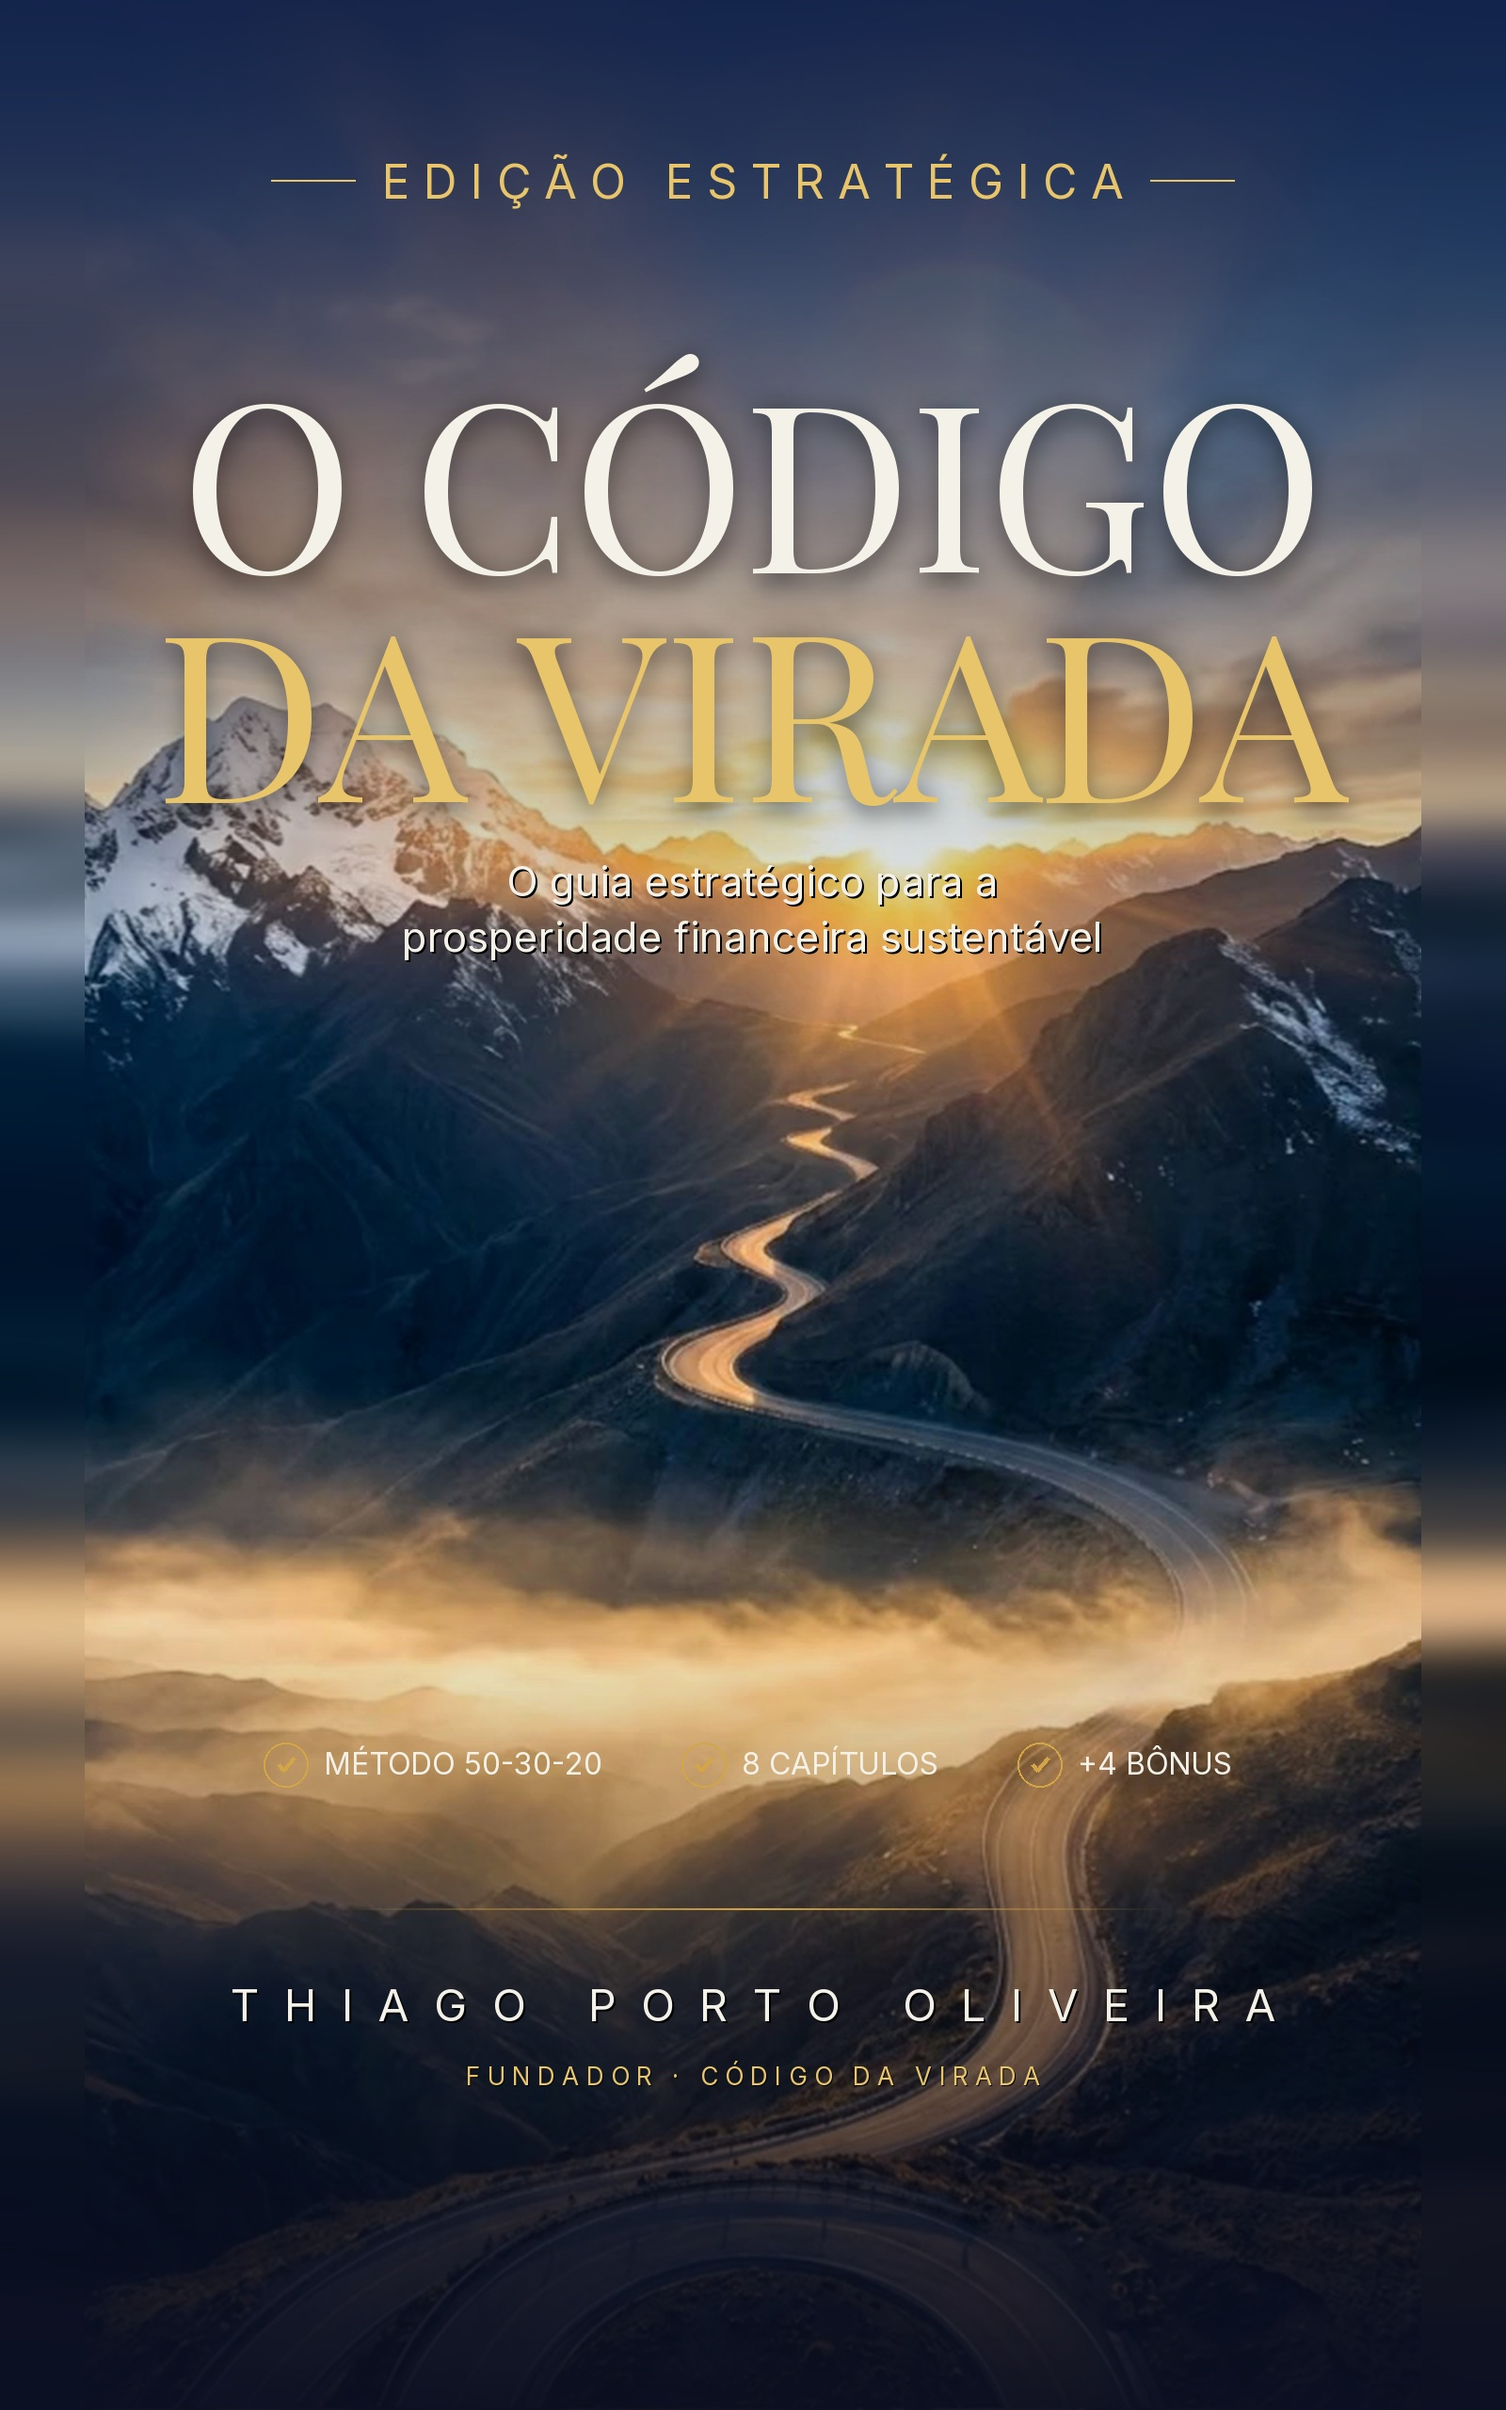
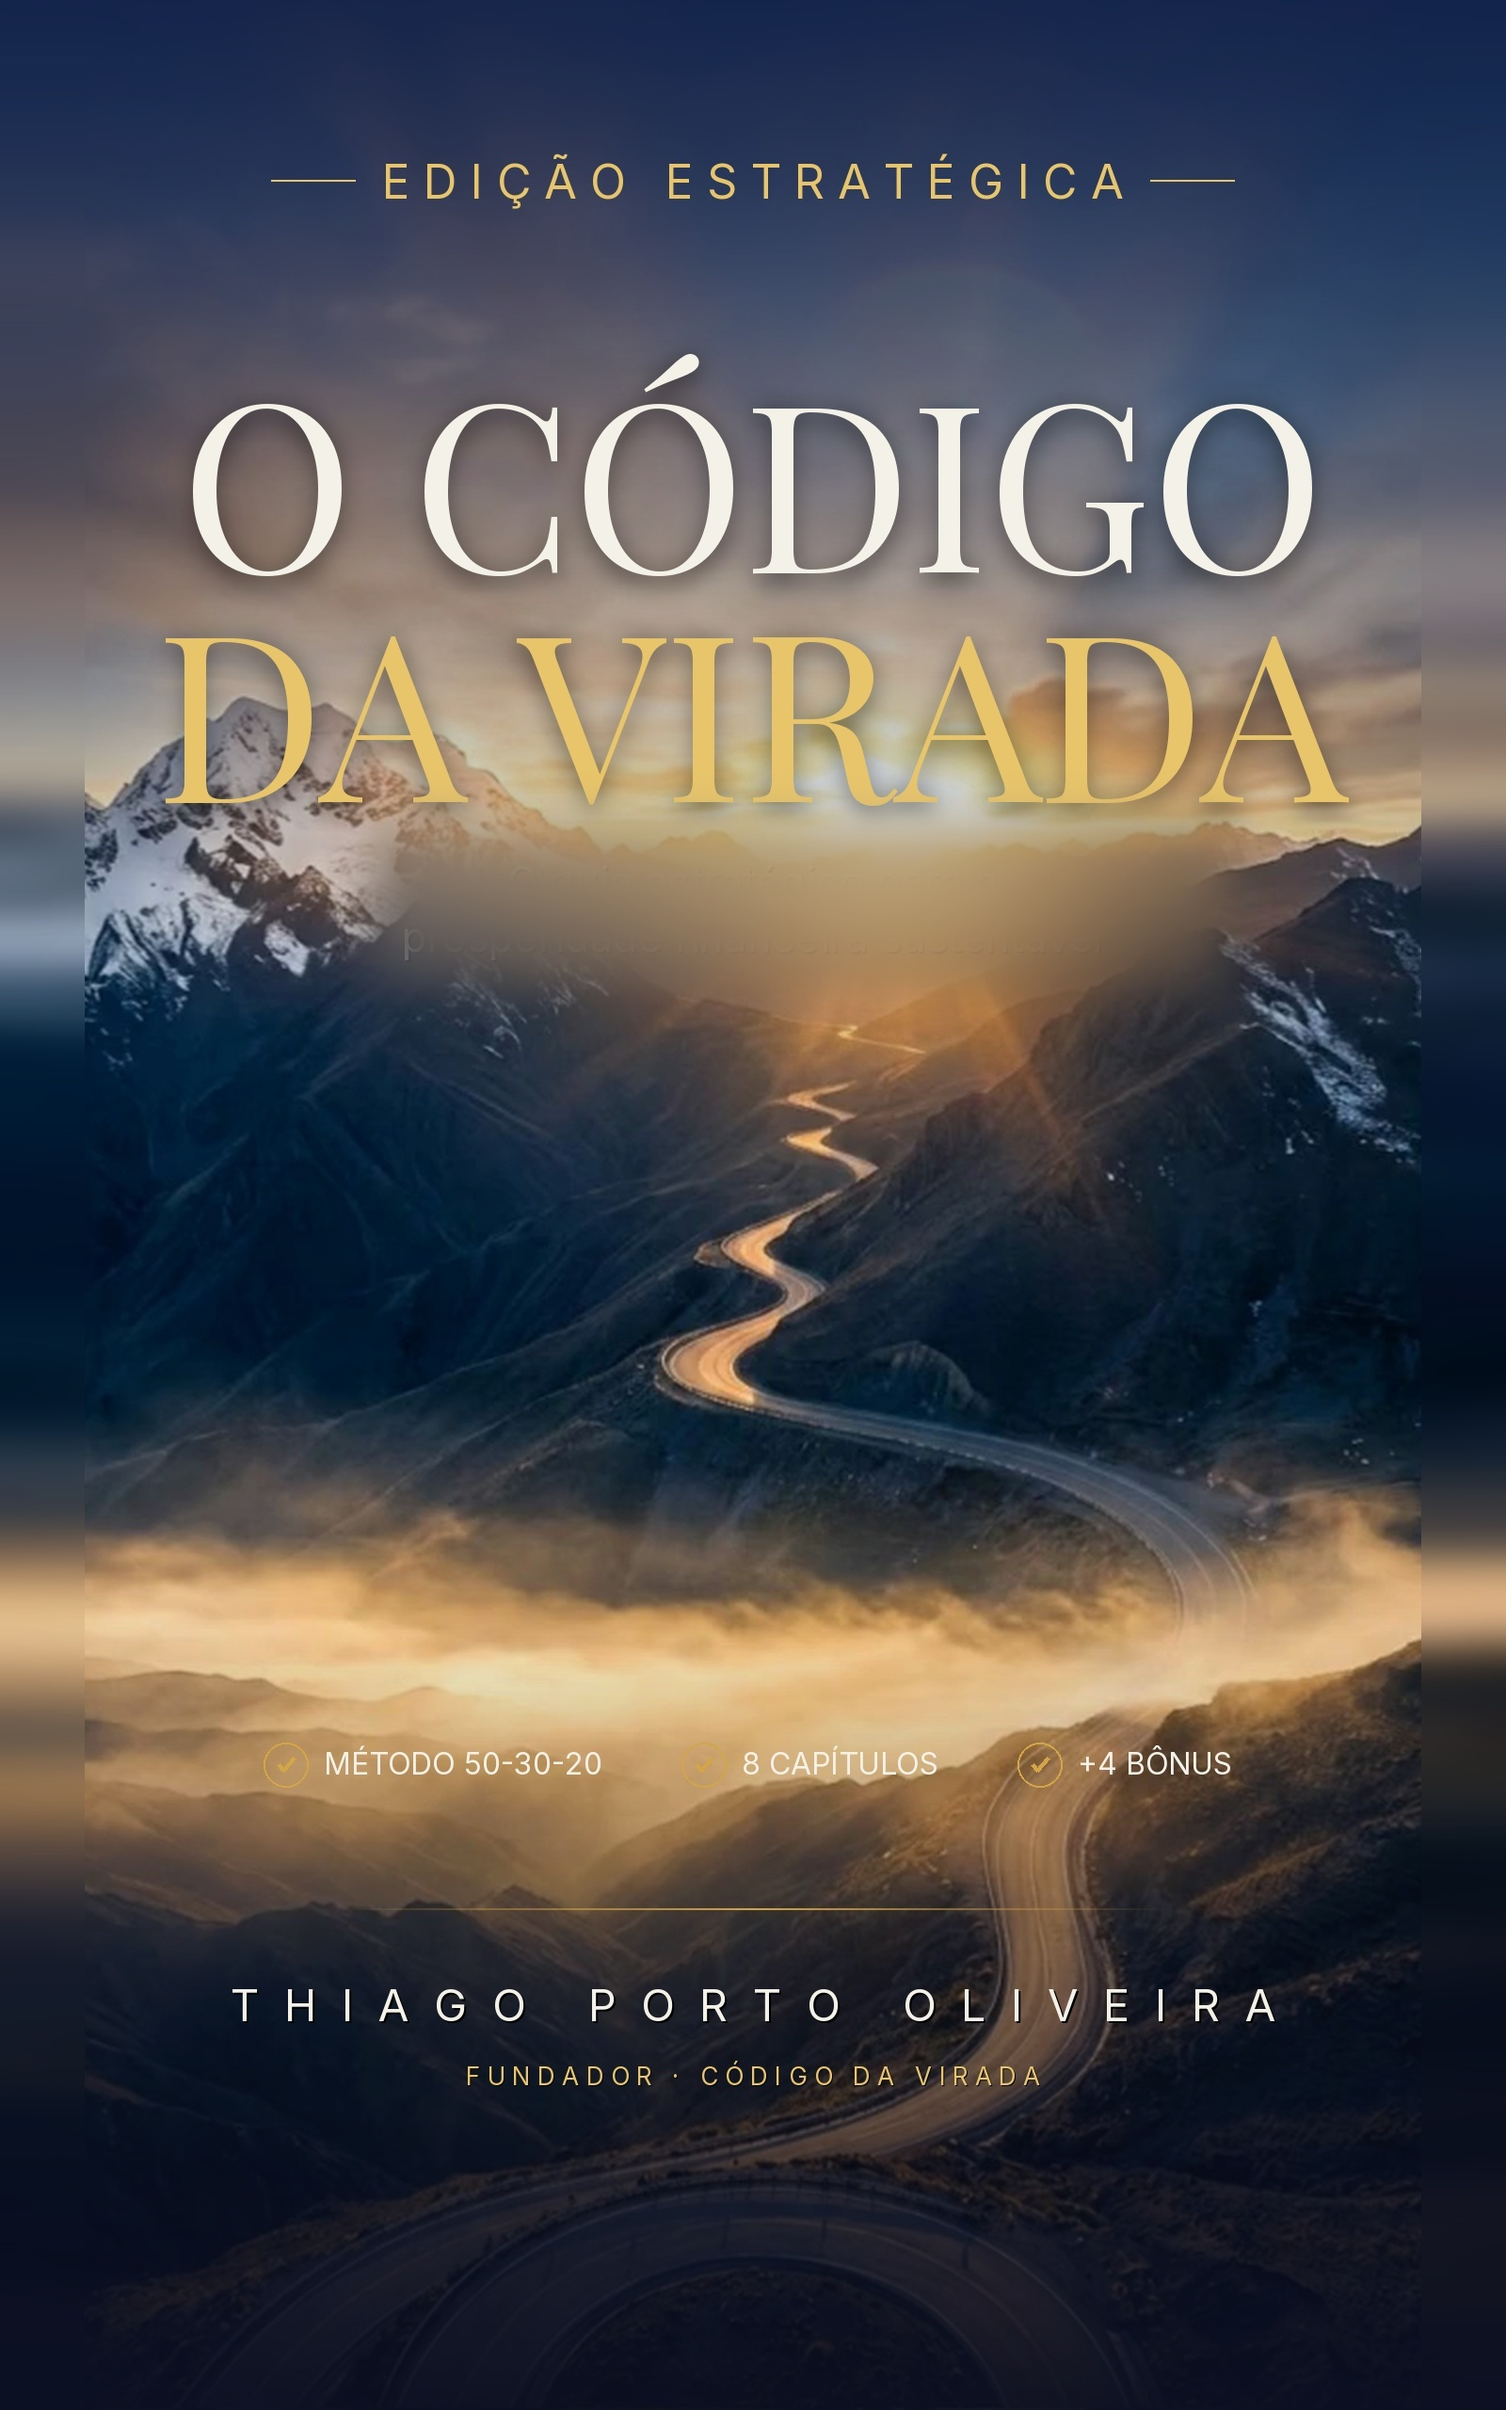
fix(capa): promessa real no lugar do "guia estratégico"
O subtítulo era "O guia estratégico para a prosperidade financeira sustentável"
— linguagem de consultoria, o oposto do que a landing inteira fala. Agora a capa
diz o que a página diz: "Você sabe quanto ganha. Não sabe pra onde foi."

O texto antigo foi apagado no pixel (Pillow: blur forte só na faixa, com máscara
de borda suave), não tapado com retângulo — tentativas com backdrop-filter no CSS
deixavam ou fantasma do texto ou emenda visível. O fundo já limpo virou
_design/capa-ebook-fundo.jpg.

Claude-Session: https://claude.ai/code/session_0161xsctB3uk42drspMkQxAG

Changed region(s): [[0.2188, 0.3125, 0.8125, 0.4375]]

diff --git a/_design/capa-ebook-montanha.html b/_design/capa-ebook-montanha.html
@@ -9,7 +9,7 @@
   *{margin:0;padding:0;box-sizing:border-box;}
   html,body{width:1600px;height:2560px;overflow:hidden;}
   body{
-    background:url("ebook-montanha.jpg") center/1600px 2560px no-repeat #0b1220;
+    background:url("capa-limpa.jpg") center/1600px 2560px no-repeat #0b1220;
     font-family:'Onest',sans-serif;
     position:relative;
   }
@@ -17,6 +17,22 @@
   /* A faixa de selos original dizia "MÉTODO 50-30-20 · 8 CAPÍTULOS · +4 BÔNUS".
      O e-book tem 5 capítulos, são 3 bônus e o produto não usa 50-30-20.
      Cobrimos só essa faixa — a arte fica intacta. */
+
+  /* O subtítulo original era "O guia estratégico para a prosperidade financeira
+     sustentável" — linguagem de consultoria, o oposto do tom da landing.
+     A faixa borra e escurece o próprio céu da foto, em vez de tapar com um
+     retângulo chapado: some com o texto e continua parecendo a mesma imagem. */
+  .promessa{
+    position:absolute;left:0;right:0;top:842px;height:256px;
+    display:flex;flex-direction:column;align-items:center;justify-content:center;gap:8px;
+    text-align:center;
+  }
+  .promessa span{
+    font-size:44px;line-height:1.3;color:#F8FAFC;font-weight:400;
+    text-shadow:0 2px 16px rgba(0,0,0,.85), 0 1px 3px rgba(0,0,0,.9);
+  }
+  .promessa span.forte{font-weight:600;color:#fff;}
+
   .tampa{
     position:absolute;left:0;right:0;top:1818px;height:150px;
     background:linear-gradient(180deg,
@@ -47,6 +63,11 @@
 </style>
 </head>
 <body>
+  <div class="promessa">
+    <span>Você sabe quanto ganha.</span>
+    <span class="forte">Não sabe pra onde foi.</span>
+  </div>
+
   <div class="tampa"></div>
   <div class="selos">
     <span class="selo"><b>5</b> capítulos</span>
